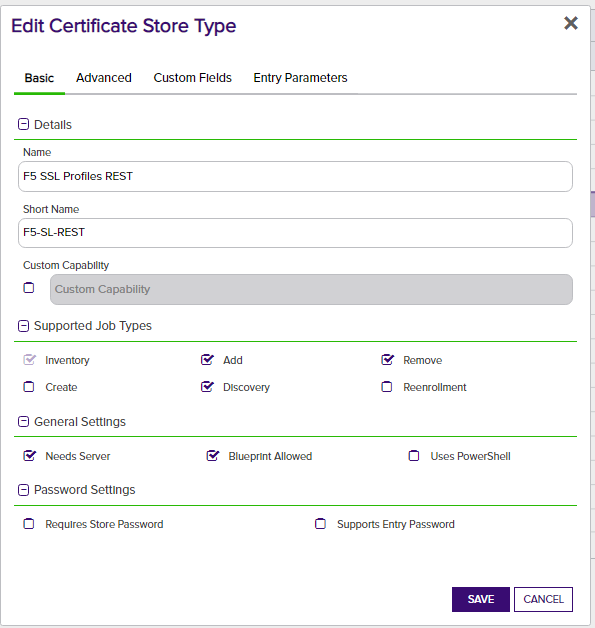
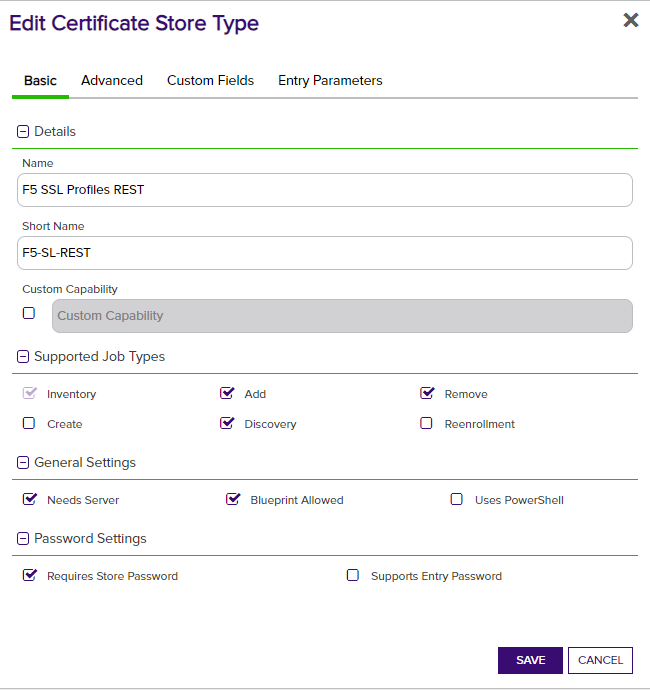
Ab#61963 (#49)
Add Store Password (optional) to allow for setting key type to "Password" when adding/replacing a certificate. This will encrypt the private key deployed on the F5 device with the password set as the Store Password.

diff --git a/F5Client.cs b/F5Client.cs
@@ -83,7 +83,7 @@ namespace Keyfactor.Extensions.Orchestrator.F5Orchestrator
 
         #region Certificate/PFX Shared
 
-        public void AddEntry(string partition, string name, string b64Certificate)
+        public void AddEntry(string partition, string name, string b64Certificate, string certificatePassword)
         {
             LogHandlerCommon.MethodEntry(logger, CertificateStore, "AddEntry");
             LogHandlerCommon.Trace(logger, CertificateStore, $"Processing certificate for partition '{partition}' and name '{name}'");
@@ -94,7 +94,7 @@ namespace Keyfactor.Extensions.Orchestrator.F5Orchestrator
             if (certificate.HasPrivateKey)
             {
                 LogHandlerCommon.Trace(logger, CertificateStore, $"Certificate for partition '{partition}' and name '{name}' has a private key - performing addition");
-                AddPfx(entryContents, partition, name, password, null);
+                AddPfx(entryContents, partition, name, password, null, certificatePassword);
                 LogHandlerCommon.Trace(logger, CertificateStore, $"PFX addition for partition '{partition}' and name '{name}' completed");
             }
             else
@@ -106,7 +106,7 @@ namespace Keyfactor.Extensions.Orchestrator.F5Orchestrator
             LogHandlerCommon.MethodExit(logger, CertificateStore, "AddEntry");
         }
 
-        public void ReplaceEntry(string partition, string name, string b64Certificate)
+        public void ReplaceEntry(string partition, string name, string b64Certificate, string certificatePassword)
         {
             LogHandlerCommon.MethodEntry(logger, CertificateStore, "ReplaceEntry");
             LogHandlerCommon.Trace(logger, CertificateStore, $"Processing certificate for partition '{partition}' and name '{name}'");
@@ -118,7 +118,7 @@ namespace Keyfactor.Extensions.Orchestrator.F5Orchestrator
             if (certificate.HasPrivateKey)
             {
                 LogHandlerCommon.Trace(logger, CertificateStore, $"Certificate for partition '{partition}' and name '{name}' has a private key - performing replacement");
-                ReplacePfx(entryContents, partition, name, password);
+                ReplacePfx(entryContents, partition, name, password, certificatePassword);
                 LogHandlerCommon.Trace(logger, CertificateStore, $"PFX replacement for partition '{partition}' and name '{name}' completed");
             }
             else
@@ -220,7 +220,7 @@ namespace Keyfactor.Extensions.Orchestrator.F5Orchestrator
             LogHandlerCommon.MethodExit(logger, CertificateStore, "AddCertificate");
         }
 
-        private void AddPfx(byte[] entryContents, string partition, string name, string password, string keyName)
+        private void AddPfx(byte[] entryContents, string partition, string name, string password, string keyName, string certificatePassword)
         {
             LogHandlerCommon.MethodEntry(logger, CertificateStore, "AddPfx");
             LogHandlerCommon.Trace(logger, CertificateStore, $"Uploading PFX to {partition}-{name}.p12");
@@ -238,6 +238,8 @@ namespace Keyfactor.Extensions.Orchestrator.F5Orchestrator
                     name = $"{name}",
                     localfile = $"/var/config/rest/downloads/{partition}-{name}.p12{keyNameParam}",
                     passphrase = password,
+                    keyPassphrase = String.IsNullOrEmpty(certificatePassword) ? string.Empty : certificatePassword,
+                    keySecurityType = String.IsNullOrEmpty(certificatePassword) ? "normal" : "password",
                     partition = partition
                 }, "pkcs12");
             }
@@ -248,7 +250,7 @@ namespace Keyfactor.Extensions.Orchestrator.F5Orchestrator
                 //  again with that key name appended onto the localfile parameter.  An F5 hotfix is necessary to produce
                 //  this message and use the updated /pkcs12 API that accepts the separate key name.
                 if (string.IsNullOrEmpty(keyName) && ex.message.Contains(INVALID_KEY_MSG_ID))
-                    AddPfx(entryContents, partition, name, password, GetKeyName(ex.message));
+                    AddPfx(entryContents, partition, name, password, GetKeyName(ex.message), certificatePassword);
                 else
                     throw (name.Contains(".crt", StringComparison.OrdinalIgnoreCase) &&
                            ex.Message.Contains("expected to exist", StringComparison.OrdinalIgnoreCase) ?
@@ -287,7 +289,7 @@ namespace Keyfactor.Extensions.Orchestrator.F5Orchestrator
             LogHandlerCommon.MethodExit(logger, CertificateStore, "ReplaceCertificate");
         }
 
-        private void ReplacePfx(byte[] entryContents, string partition, string name, string password)
+        private void ReplacePfx(byte[] entryContents, string partition, string name, string password, string certificatePassword)
         {
             LogHandlerCommon.MethodEntry(logger, CertificateStore, "ReplacePfx");
             string timestamp = DateTime.Now.ToString("MM-dd-yy:H:mm:ss");
@@ -297,7 +299,7 @@ namespace Keyfactor.Extensions.Orchestrator.F5Orchestrator
             ArchiveFile($"/config/filestore/files_d/{partition}_d/certificate_d/:{partition}:{name}_*", $"{partition}-{name}-{timestamp}.crt");
 
             LogHandlerCommon.Trace(logger, CertificateStore, $"Adding PFX to partition '{partition}' and name '{name}'");
-            AddPfx(entryContents, partition, name, password, null);
+            AddPfx(entryContents, partition, name, password, null, certificatePassword);
             LogHandlerCommon.MethodExit(logger, CertificateStore, "ReplacePfx");
         }
 
@@ -703,6 +705,7 @@ namespace Keyfactor.Extensions.Orchestrator.F5Orchestrator
             {
                 try
                 {
+                    LogHandlerCommon.Trace(logger, CertificateStore, $"Processing alias {profiles[i].name}");
                     // Exclude 'ca-bundle.crt' as that can only be managed by F5
                     if (profiles[i].name.Equals("ca-bundle.crt", StringComparison.OrdinalIgnoreCase)
                         || profiles[i].name.Equals("f5-ca-bundle.crt", StringComparison.OrdinalIgnoreCase))
@@ -860,14 +863,14 @@ namespace Keyfactor.Extensions.Orchestrator.F5Orchestrator
             if (!CertificateExists(partition, name))
             {
                 LogHandlerCommon.Debug(logger, CertificateStore, $"Add entry '{name}' in '{CertificateStore.StorePath}'");
-                AddEntry(partition, name, b64Certificate);
+                AddEntry(partition, name, b64Certificate, null);
             }
             else
             {
                 if (!overwrite) { throw new Exception($"An entry named '{name}' exists and 'overwrite' was not selected"); }
 
                 LogHandlerCommon.Debug(logger, CertificateStore, $"Replace entry '{name}' in '{CertificateStore.StorePath}'");
-                ReplaceEntry(partition, name, b64Certificate);
+                ReplaceEntry(partition, name, b64Certificate, null);
             }
 
             // Add the entry to the bundle

diff --git a/SSLProfile/Management.cs b/SSLProfile/Management.cs
@@ -57,7 +57,7 @@ namespace Keyfactor.Extensions.Orchestrator.F5Orchestrator.SSLProfile
                 {
                     case CertStoreOperationType.Add:
                         LogHandlerCommon.Debug(logger, config.CertificateStoreDetails, $"Add entry '{config.JobCertificate.Alias}' to '{config.CertificateStoreDetails.StorePath}'");
-                        PerformAddJob(f5);
+                        PerformAddJob(f5, config.CertificateStoreDetails.StorePassword);
                         break;
                     case CertStoreOperationType.Remove:
                         LogHandlerCommon.Trace(logger, config.CertificateStoreDetails, $"Remove entry '{config.JobCertificate.Alias}' from '{config.CertificateStoreDetails.StorePath}'");
@@ -81,7 +81,7 @@ namespace Keyfactor.Extensions.Orchestrator.F5Orchestrator.SSLProfile
             }
         }
 
-        private void PerformAddJob(F5Client f5)
+        private void PerformAddJob(F5Client f5, string certificatePassword)
         {
             LogHandlerCommon.MethodEntry(logger, JobConfig.CertificateStoreDetails, "PerformAddJob");
             string name = JobConfig.JobCertificate.Alias;
@@ -92,12 +92,12 @@ namespace Keyfactor.Extensions.Orchestrator.F5Orchestrator.SSLProfile
                 if (!JobConfig.Overwrite) { throw new Exception($"An entry named '{name}' exists and 'overwrite' was not selected"); }
 
                 LogHandlerCommon.Debug(logger, JobConfig.CertificateStoreDetails, $"Replace entry '{name}' in '{JobConfig.CertificateStoreDetails.StorePath}'");
-                f5.ReplaceEntry(partition, name, JobConfig.JobCertificate.Contents);
+                f5.ReplaceEntry(partition, name, JobConfig.JobCertificate.Contents, null);
             }
             else
             {
                 LogHandlerCommon.Debug(logger, JobConfig.CertificateStoreDetails, $"The entry '{name}' does not exist in '{JobConfig.CertificateStoreDetails.StorePath}' and will be added");
-                f5.AddEntry(partition, name, JobConfig.JobCertificate.Contents);
+                f5.AddEntry(partition, name, JobConfig.JobCertificate.Contents, certificatePassword);
             }
             LogHandlerCommon.MethodExit(logger, JobConfig.CertificateStoreDetails, "PerformAddJob");
         }

diff --git a/Bundle/Management.cs b/Bundle/Management.cs
@@ -97,7 +97,7 @@ namespace Keyfactor.Extensions.Orchestrator.F5Orchestrator.Bundle
                 if (!JobConfig.Overwrite) { throw new Exception($"An entry named '{name}' exists and 'overwrite' was not selected"); }
 
                 LogHandlerCommon.Debug(logger, JobConfig.CertificateStoreDetails, $"Replace entry '{name}' in '{JobConfig.CertificateStoreDetails.StorePath}'");
-                f5.ReplaceEntry(partition, name, JobConfig.JobCertificate.Contents);
+                f5.ReplaceEntry(partition, name, JobConfig.JobCertificate.Contents, null);
             }
             else
             {

diff --git a/F5DataModels.cs b/F5DataModels.cs
@@ -108,6 +108,8 @@ namespace Keyfactor.Extensions.Orchestrator.F5Orchestrator
         public string localfile { get; set; }
 
         public string passphrase { get; set; }
+        public string keyPassphrase { get; set; }
+        public string keySecurityType { get; set; }
         public string partition { get; set; }
     }
 

diff --git a/README.md b/README.md
@@ -1,9 +1,9 @@
+
 # F5
 
 The F5 Orchestrator allows for the remote management of F5 Stores. Discovery, Inventory, and Management functions are supported.
 
 #### Integration status: Production - Ready for use in production environments.
-
 
 ## About the Keyfactor Universal Orchestrator Extension
 
@@ -13,23 +13,22 @@ The Universal Orchestrator is part of the Keyfactor software distribution and is
 
 The Universal Orchestrator is the successor to the Windows Orchestrator. This Orchestrator Extension plugin only works with the Universal Orchestrator and does not work with the Windows Orchestrator.
 
-
 ## Support for F5
 
-F5 is supported by Keyfactor for Keyfactor customers. If you have a support issue, please open a support ticket with your Keyfactor representative.
+F5 is supported by Keyfactor for Keyfactor customers. If you have a support issue, please open a support ticket via the Keyfactor Support Portal at https://support.keyfactor.com
 
 ###### To report a problem or suggest a new feature, use the **[Issues](../../issues)** tab. If you want to contribute actual bug fixes or proposed enhancements, use the **[Pull requests](../../pulls)** tab.
+
+---
 
 
 ---
 
 
 
-
 ## Keyfactor Version Supported
 
 The minimum version of the Keyfactor Universal Orchestrator Framework needed to run this version of the extension is 10.1
-
 ## Platform Specific Notes
 
 The Keyfactor Universal Orchestrator may be installed on either Windows or Linux based platforms. The certificate operations supported by a capability may vary based what platform the capability is installed on. The table below indicates what capabilities are supported based on which platform the encompassing Universal Orchestrator is running.
@@ -39,7 +38,7 @@ The Keyfactor Universal Orchestrator may be installed on either Windows or Linux
 |Supports Management Remove|&check; |&check; |
 |Supports Create Store|  |  |
 |Supports Discovery|&check; |&check; |
-|Supports Renrollment|  |  |
+|Supports Reenrollment|  |  |
 |Supports Inventory|&check; |&check; |
 
 
@@ -163,7 +162,7 @@ The version number of a the F5 Orchestrator can be verified by right clicking on
 - **Custom Capability** - Leave unchecked
 - **Supported Job Types** – Select Inventory and Add for all 3 types, and Discovery for CA Bundles and SSL Certificates.
 - **General Settings** - Select Needs Server.  Leave Uses PowerShell unchecked.  Select Blueprint Allowed if you plan to use blueprinting.
-- **Password Settings** - Leave both options unchecked
+- **Password Settings** - Leave both options unchecked for F5-WS-REST and F5-CA-REST.  Select Needs Store Password for F5-SL-REST.
 - **All selections on Advanced tab** - Set the values on this tab ***exactly*** as they are shown in the above screen prints for each applicable store type.
 
 
@@ -192,31 +191,35 @@ If you choose to manually create a F5 store In Keyfactor Command rather than run
 
 - **Container** – Optional.  Select a container if utilized.
 
-- **Client Machine & Credentials** – Required.  The server name or IP Address and login credentials for the F5 device.  The credentials for server login can be any of:
-  
-  - UserId/Password
-  
-  - PAM provider information to pass the UserId/Password or UserId/SSH private key credentials
-    
-  When entering the credentials, UseSSL ***must*** be selected.
+- **Client Machine** – Required.  The server name or IP Address for the F5 device.
   
 - **Store Path** – Required.  Enter the name of the partition on the F5 device you wish to manage.  This value is case sensitive, so if the partition name is "Common", it must be entered as "Common" and not "common".
+
+- **Orchestrator** – Required.  Select the orchestrator you wish to use to manage this store
 
 - **Primary Node Online Required** – Optional.  Select this if you wish to stop the orchestrator from adding, replacing or renewing certificates on nodes that are inactive.  If this is not selected, adding, replacing and renewing certificates on inactive nodes will be allowed.  If you choose not to add this custom field, the default value of False will be assumed.
 
 - **Primary Node** - Only required (and shown) if Primary Node Online Required is added and selected.  Enter the fully qualified domain name of the F5 device that acts as the primary node in a highly available F5 implementation.  If you're using a single F5 device, this will typically be the same value you entered in the Client Machine field.
 
-- **Primary Node Check Retry Maximum** - Only required (and shown) if Primary Node Online Required is added and selected.  Enter the number of times a Management-Add job will attempt to add/replace/renew a certificate if the node is inactive before failing.
-
 - **Primary Node Check Retry Wait Seconds** - Only required (and shown) if Primary Node Online Required is added and selected.  Enter the number of seconds to wait between attempts to add/replace/renew a certificate if the node is inactive.
 
+- **Primary Node Check Retry Maximum** - Only required (and shown) if Primary Node Online Required is added and selected.  Enter the number of times a Management-Add job will attempt to add/replace/renew a certificate if the node is inactive before failing.
+
 - **Version of F5** - Required.  Select v13, v14, or v15 to match the version for the F5 device being managed
+
+- **Server Username/Server Password** - Required.  The credentials for server login can be any of:
+  
+  - UserId/Password
+  
+  - PAM provider information to pass the UserId/Password or UserId/SSH private key credentials
+
+- **Use SSL** - Required.  True if using https to access the F5 device.  False if using http.
 
 - **Ignore SSL Warning** - Optional.  Select this if you wish to ignore SSL warnings from F5 that occur during API calls when the site does not have a trusted certificate with the proper SAN bound to it.  If you choose not to add this custom field, the default value of False will be assumed and SSL warnings will cause errors during orchestrator extension jobs.
 
 - **Use Token Authentication** - Optional.  Select this if you wish to use F5's token authentiation instead of basic authentication for all API requests.  If you choose not to add this custom field, the default value of False will be assumed and basic authentication will be used for all API requests for all jobs.  Setting this value to True will enable an initial basic authenticated request to acquire an authentication token, which will then be used for all subsequent API requests.
 
-- **Orchestrator** – Required.  Select the orchestrator you wish to use to manage this store
+- **Store Password** - Required for F5-SL-REST only.  Check "No Password" if you wish the private key of any added certificate to be set to Key Security Type "Normal".  Enter a value (either a password or pointer to an installed PAM provider key for the password) to be used to encrypt the private key of any added certificate for Key Security Type of "Password".
 
 - **Inventory Schedule** – Set a schedule for running Inventory jobs or none, if you choose not to schedule Inventory at this time.
 
@@ -245,4 +248,7 @@ First, in Keyfactor Command navigate to Certificate Locations =\> Certificate St
 - **Directories to ignore/Extensions/File name patterns to match/Follow SymLinks/Include PKCS12 Files** – Not used.  Leave blank.
 
 Once the Discovery job has completed, a list of F5 certificate store locations should show in the Certificate Stores Discovery tab in Keyfactor Command. Right click on a store and select Approve to bring up a dialog that will ask for the remaining necessary certificate store parameters described in Step 2a.  Complete those and click Save, and the Certificate Store should now show up in the list of stores in the Certificate Stores tab.
+
+When creating cert store type manually, that store property names and entry parameter names are case sensitive
+
 

diff --git a/readme_source.md b/readme_source.md
@@ -62,7 +62,7 @@ The version number of a the F5 Orchestrator can be verified by right clicking on
 - **Custom Capability** - Leave unchecked
 - **Supported Job Types** – Select Inventory and Add for all 3 types, and Discovery for CA Bundles and SSL Certificates.
 - **General Settings** - Select Needs Server.  Leave Uses PowerShell unchecked.  Select Blueprint Allowed if you plan to use blueprinting.
-- **Password Settings** - Leave both options unchecked
+- **Password Settings** - Leave both options unchecked for F5-WS-REST and F5-CA-REST.  Select Needs Store Password for F5-SL-REST.
 - **All selections on Advanced tab** - Set the values on this tab ***exactly*** as they are shown in the above screen prints for each applicable store type.
 
 
@@ -91,31 +91,35 @@ If you choose to manually create a F5 store In Keyfactor Command rather than run
 
 - **Container** – Optional.  Select a container if utilized.
 
-- **Client Machine & Credentials** – Required.  The server name or IP Address and login credentials for the F5 device.  The credentials for server login can be any of:
-  
-  - UserId/Password
-  
-  - PAM provider information to pass the UserId/Password or UserId/SSH private key credentials
-    
-  When entering the credentials, UseSSL ***must*** be selected.
+- **Client Machine** – Required.  The server name or IP Address for the F5 device.
   
 - **Store Path** – Required.  Enter the name of the partition on the F5 device you wish to manage.  This value is case sensitive, so if the partition name is "Common", it must be entered as "Common" and not "common".
+
+- **Orchestrator** – Required.  Select the orchestrator you wish to use to manage this store
 
 - **Primary Node Online Required** – Optional.  Select this if you wish to stop the orchestrator from adding, replacing or renewing certificates on nodes that are inactive.  If this is not selected, adding, replacing and renewing certificates on inactive nodes will be allowed.  If you choose not to add this custom field, the default value of False will be assumed.
 
 - **Primary Node** - Only required (and shown) if Primary Node Online Required is added and selected.  Enter the fully qualified domain name of the F5 device that acts as the primary node in a highly available F5 implementation.  If you're using a single F5 device, this will typically be the same value you entered in the Client Machine field.
 
-- **Primary Node Check Retry Maximum** - Only required (and shown) if Primary Node Online Required is added and selected.  Enter the number of times a Management-Add job will attempt to add/replace/renew a certificate if the node is inactive before failing.
-
 - **Primary Node Check Retry Wait Seconds** - Only required (and shown) if Primary Node Online Required is added and selected.  Enter the number of seconds to wait between attempts to add/replace/renew a certificate if the node is inactive.
 
+- **Primary Node Check Retry Maximum** - Only required (and shown) if Primary Node Online Required is added and selected.  Enter the number of times a Management-Add job will attempt to add/replace/renew a certificate if the node is inactive before failing.
+
 - **Version of F5** - Required.  Select v13, v14, or v15 to match the version for the F5 device being managed
+
+- **Server Username/Server Password** - Required.  The credentials for server login can be any of:
+  
+  - UserId/Password
+  
+  - PAM provider information to pass the UserId/Password or UserId/SSH private key credentials
+
+- **Use SSL** - Required.  True if using https to access the F5 device.  False if using http.
 
 - **Ignore SSL Warning** - Optional.  Select this if you wish to ignore SSL warnings from F5 that occur during API calls when the site does not have a trusted certificate with the proper SAN bound to it.  If you choose not to add this custom field, the default value of False will be assumed and SSL warnings will cause errors during orchestrator extension jobs.
 
 - **Use Token Authentication** - Optional.  Select this if you wish to use F5's token authentiation instead of basic authentication for all API requests.  If you choose not to add this custom field, the default value of False will be assumed and basic authentication will be used for all API requests for all jobs.  Setting this value to True will enable an initial basic authenticated request to acquire an authentication token, which will then be used for all subsequent API requests.
 
-- **Orchestrator** – Required.  Select the orchestrator you wish to use to manage this store
+- **Store Password** - Required for F5-SL-REST only.  Check "No Password" if you wish the private key of any added certificate to be set to Key Security Type "Normal".  Enter a value (either a password or pointer to an installed PAM provider key for the password) to be used to encrypt the private key of any added certificate for Key Security Type of "Password".
 
 - **Inventory Schedule** – Set a schedule for running Inventory jobs or none, if you choose not to schedule Inventory at this time.
 

diff --git a/CHANGELOG.md b/CHANGELOG.md
@@ -1,3 +1,6 @@
+v1.6.0
+- Add Store Password (optional) to allow for setting key type to "Password" when adding/replacing a certificate.  This will encrypt the private key deployed on the F5 device with the password set as the Store Password.
+
 v1.5.0
 - Add new optional custom paramter - UseTokenAuth - to make token auth vs basic auth (default) a selectable option
 
